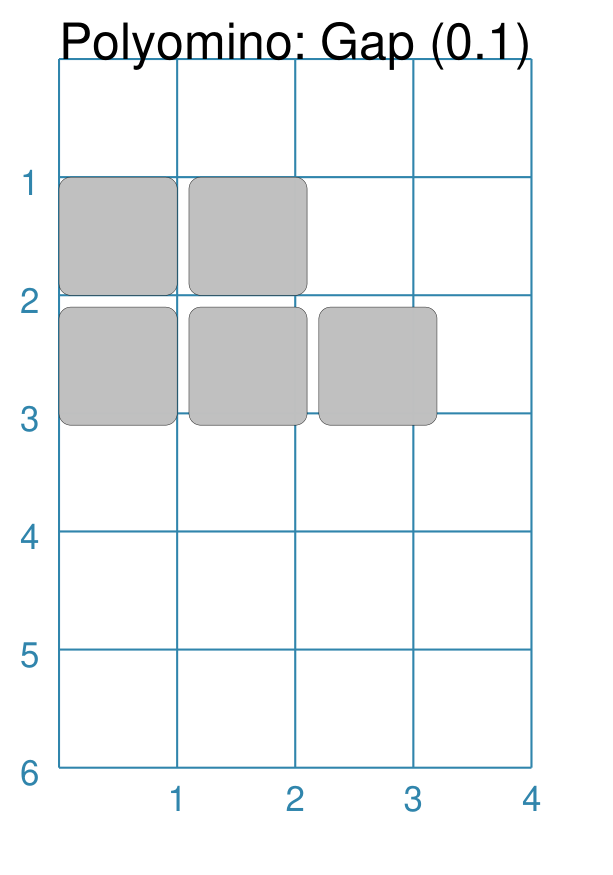
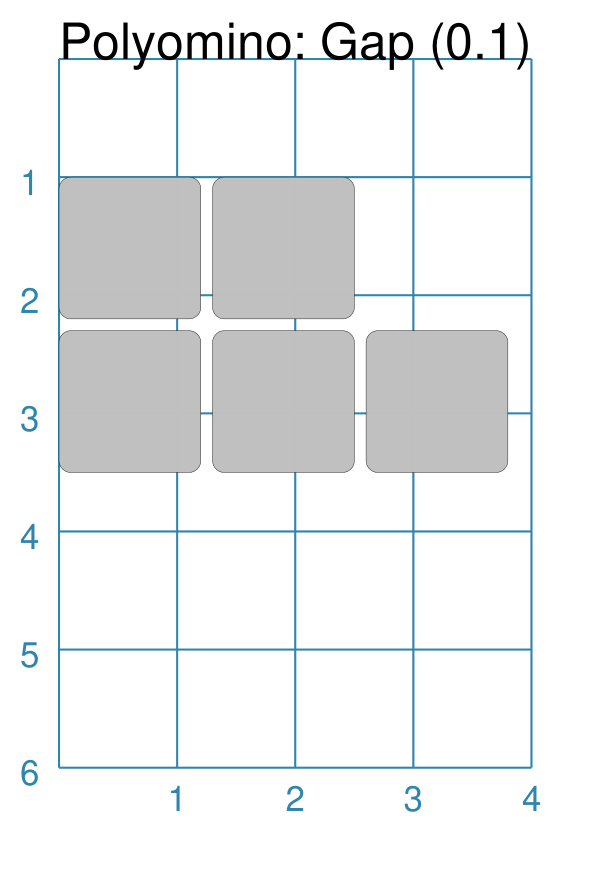
WIP on polyominoes

Changed region(s): [[0.093, 0.1851, 0.8369, 0.5554]]

diff --git a/examples/objects/polyominoes.py b/examples/objects/polyominoes.py
@@ -31,7 +31,7 @@ PageBreak()
 # ---- gap
 Blueprint(stroke_width=0.5)
 Text(common=header, text="Polyomino: Gap (0.1)")
-Polyomino(x=0, pattern=['110', '111'], fill="silver", gap=0.1, rounding=0.1)
+Polyomino(x=0, fill="silver", pattern=['110', '111'], side=1.2, gap=0.1, rounding=0.1)
 PageBreak()
 
 # ---- invert
@@ -86,8 +86,8 @@ PageBreak()
 
 # ---- generic pattern
 Blueprint(stroke_width=0.5)
-Text(common=header, text="Generic Design")
-Polyomino(x=0, y=1, pattern=['1001', '0110', '0110', '1001'], fill="silver")
+Text(common=header, text="AdHoc Design")
+Polyomino(x=0, y=1, pattern=['1001', '0110', '0100', '1001'], fill="silver")
 
 Save(
     output='png',

diff --git a/docs/source/polyominoes.rst b/docs/source/polyominoes.rst
@@ -25,12 +25,41 @@ along one or more sides, but the ``pattern`` property approach used by
 :doc:`protograf <index>` means that any kind of arrangement can be
 constructed.
 
-.. _polyominoesIndex:
+.. _polyominoesProps:
 
 Properties
-=========
+==========
 
-There are a number of ways that a Polyomino can be customised.
+In addition to the properties that are applicable to a
+:ref:`Square <square-command>` or :ref:`Rectangle <rectangle-command>`
+a Polyomino can also be customised with the following properties:
+
+- **pattern** - this is a list of string values; one string per row. Each string
+  contains one or more numbers aka "columns". Each number represents a square,
+  with a zero (0) representing a space.
+- **invert** - this can either be ``leftright`` (``lr``) or ``topbottom``
+  (`trb``) and will reverse the order of the numbers, either in a left-to-right
+  (numbers at the end of a row go to the start and vice-versa) or top-to-bottom
+  (rows at the end go to the start and vice-versa)
+- **flip** - this can either be ``north`` (``n``) or ``south`` (``s``) and
+  transposes rows and columns.
+- **gap** - this is the amount of space to leave between each row and each
+  column in the pattern
+- **outline** - along with **outline_stroke** and **outline_stroke_width**
+  is used to draw a line around the boundary of all connected squares in
+  the pattern |dash| it cannot be used in conjunction with a non-zero gap
+- **fills** - each square can be associated with a different fill color
+- **strokes** - each square can be associated with a different stroke color
+- **labels** - each square can be linked to a different label
+- **shapes** - each square can be linked to a different centred shape
+
+.. _polyominoesIndex:
+
+Examples
+========
+
+The examples below shows how various properties can be used to customise a
+Polyomino.
 
 - `Basic/Default <polyomBasic_>`_
 - `Pattern <polyomPattern_>`_
@@ -62,11 +91,10 @@ Polyomino: Basic
       This shape can be hard to see as it looks like a simple square
       with a thin outline.
 
-      It uses only defaults.
+      It uses only default values for size, stroke and color.
 
-      It takes on all the basic propety settings for size, stroke and color.
-
-      The default ``pattern`` is set to ``[[1]]`` - this is a monimo.
+      The default ``pattern`` is set to ``['1']`` - this is a monimo or
+      "size 1" Polyomino.
 
 ===== ======
 
@@ -89,7 +117,19 @@ Polyomino: Pattern
              fill="silver",
              pattern=['110', '111'])
 
-      It...
+      The *pattern* is a key property for a Polyomino.
+
+      Each string in the pattern's list represents a row, starting with the
+      "top" row. Each number in the string represents a column, with a 0 being
+      a space.
+
+      **NOTE** Each row must be of the same length!
+
+      A square is drawn at each row/column position where the number is not
+      zero.
+
+      In this example, the first row has 2 squares followed by a space (``0``)
+      and the second row has 3 squares.
 
 ===== ======
 
@@ -109,13 +149,23 @@ Polyomino: Gap
       .. code:: python
 
          Polyomino(
-             x=0,
+             x=0, y=1,
              fill="silver",
+             side=1.2,
              pattern=['110', '111'],
              gap=0.1,
              rounding=0.1)
 
-      It...
+      A **gap** ensures space between each square |dash| both in the vertical
+      and the horizontal direction.
+
+      In this example, a few other properties have been set.  These are ones
+      applicable to the drawing of a square - such as its size (``side``), fill
+      color, and corner rounding. Note that these are applicable to all squares
+      that are drawn.
+
+      Note that setting ``x`` and ``y`` determines the top-left corner where
+      the pattern starts |dash| even if that is a space.
 
 ===== ======
 
@@ -287,7 +337,7 @@ Polyomino: Adhoc Design
              x=0, y=1,
              fill="silver",
              pattern=[
-                 '1001', '0110', '0110', '1001'])
+                 '1001', '0110', '0100', '1001'])
 
       It...
 

diff --git a/docs/source/tetrominoes.rst b/docs/source/tetrominoes.rst
@@ -1,0 +1,26 @@
+===========
+Tetrominoes
+===========
+
+.. |dash| unicode:: U+2014 .. EM DASH SIGN
+
+This section assumes you are very familiar with the concepts, terms and ideas
+for :doc:`protograf <index>`  as presented in the
+:doc:`Basic Concepts <basic_concepts>` , that you understand all of the
+:doc:`Additional Concepts <additional_concepts>` and that you've created some
+basic scripts of your own using the :doc:`Core Shapes <core_shapes>`. You also
+be familiar with the various types of shape's properties described in the
+:doc:`Customised Shapes <customised_shapes>`
+
+.. _tetrominoesOver:
+
+Overview
+========
+
+Tetrominoes became well-known through the computer game "Tetris", which
+originated in 1985.  Tetrominoes are one type of :doc:`Polyominoes <polyominoes>`
+and each one is composed of **4** squares in one of 5 unique patterns.
+
+They can referred to by their shortcut ``letter`` property which has been
+assigned to each of the 5 shapes, based on their similarity to letters in
+the Roman alphabet.

diff --git a/docs/source/core_shapes.rst b/docs/source/core_shapes.rst
@@ -2190,6 +2190,10 @@ Square
 ~~~~~~
 `↑ <shape-index_>`_
 
+A square shares almost all of the same properties as a `Rectangle`_ and so
+that shape, which has additional customisation options available, should
+also be referenced when working with this shape.
+
 Example 1. Default Square
 +++++++++++++++++++++++++
 

diff --git a/docs/source/objects.rst b/docs/source/objects.rst
@@ -55,3 +55,5 @@ Tetrominoes
 Similar to Pentominoes, these are each composed of **4** squares in one of 5
 unique patterns. They can also referred to by their shortcut ``letter``
 property.
+
+For more details, see the section on :doc:`Tetrominoes <tetrominoes>`.
